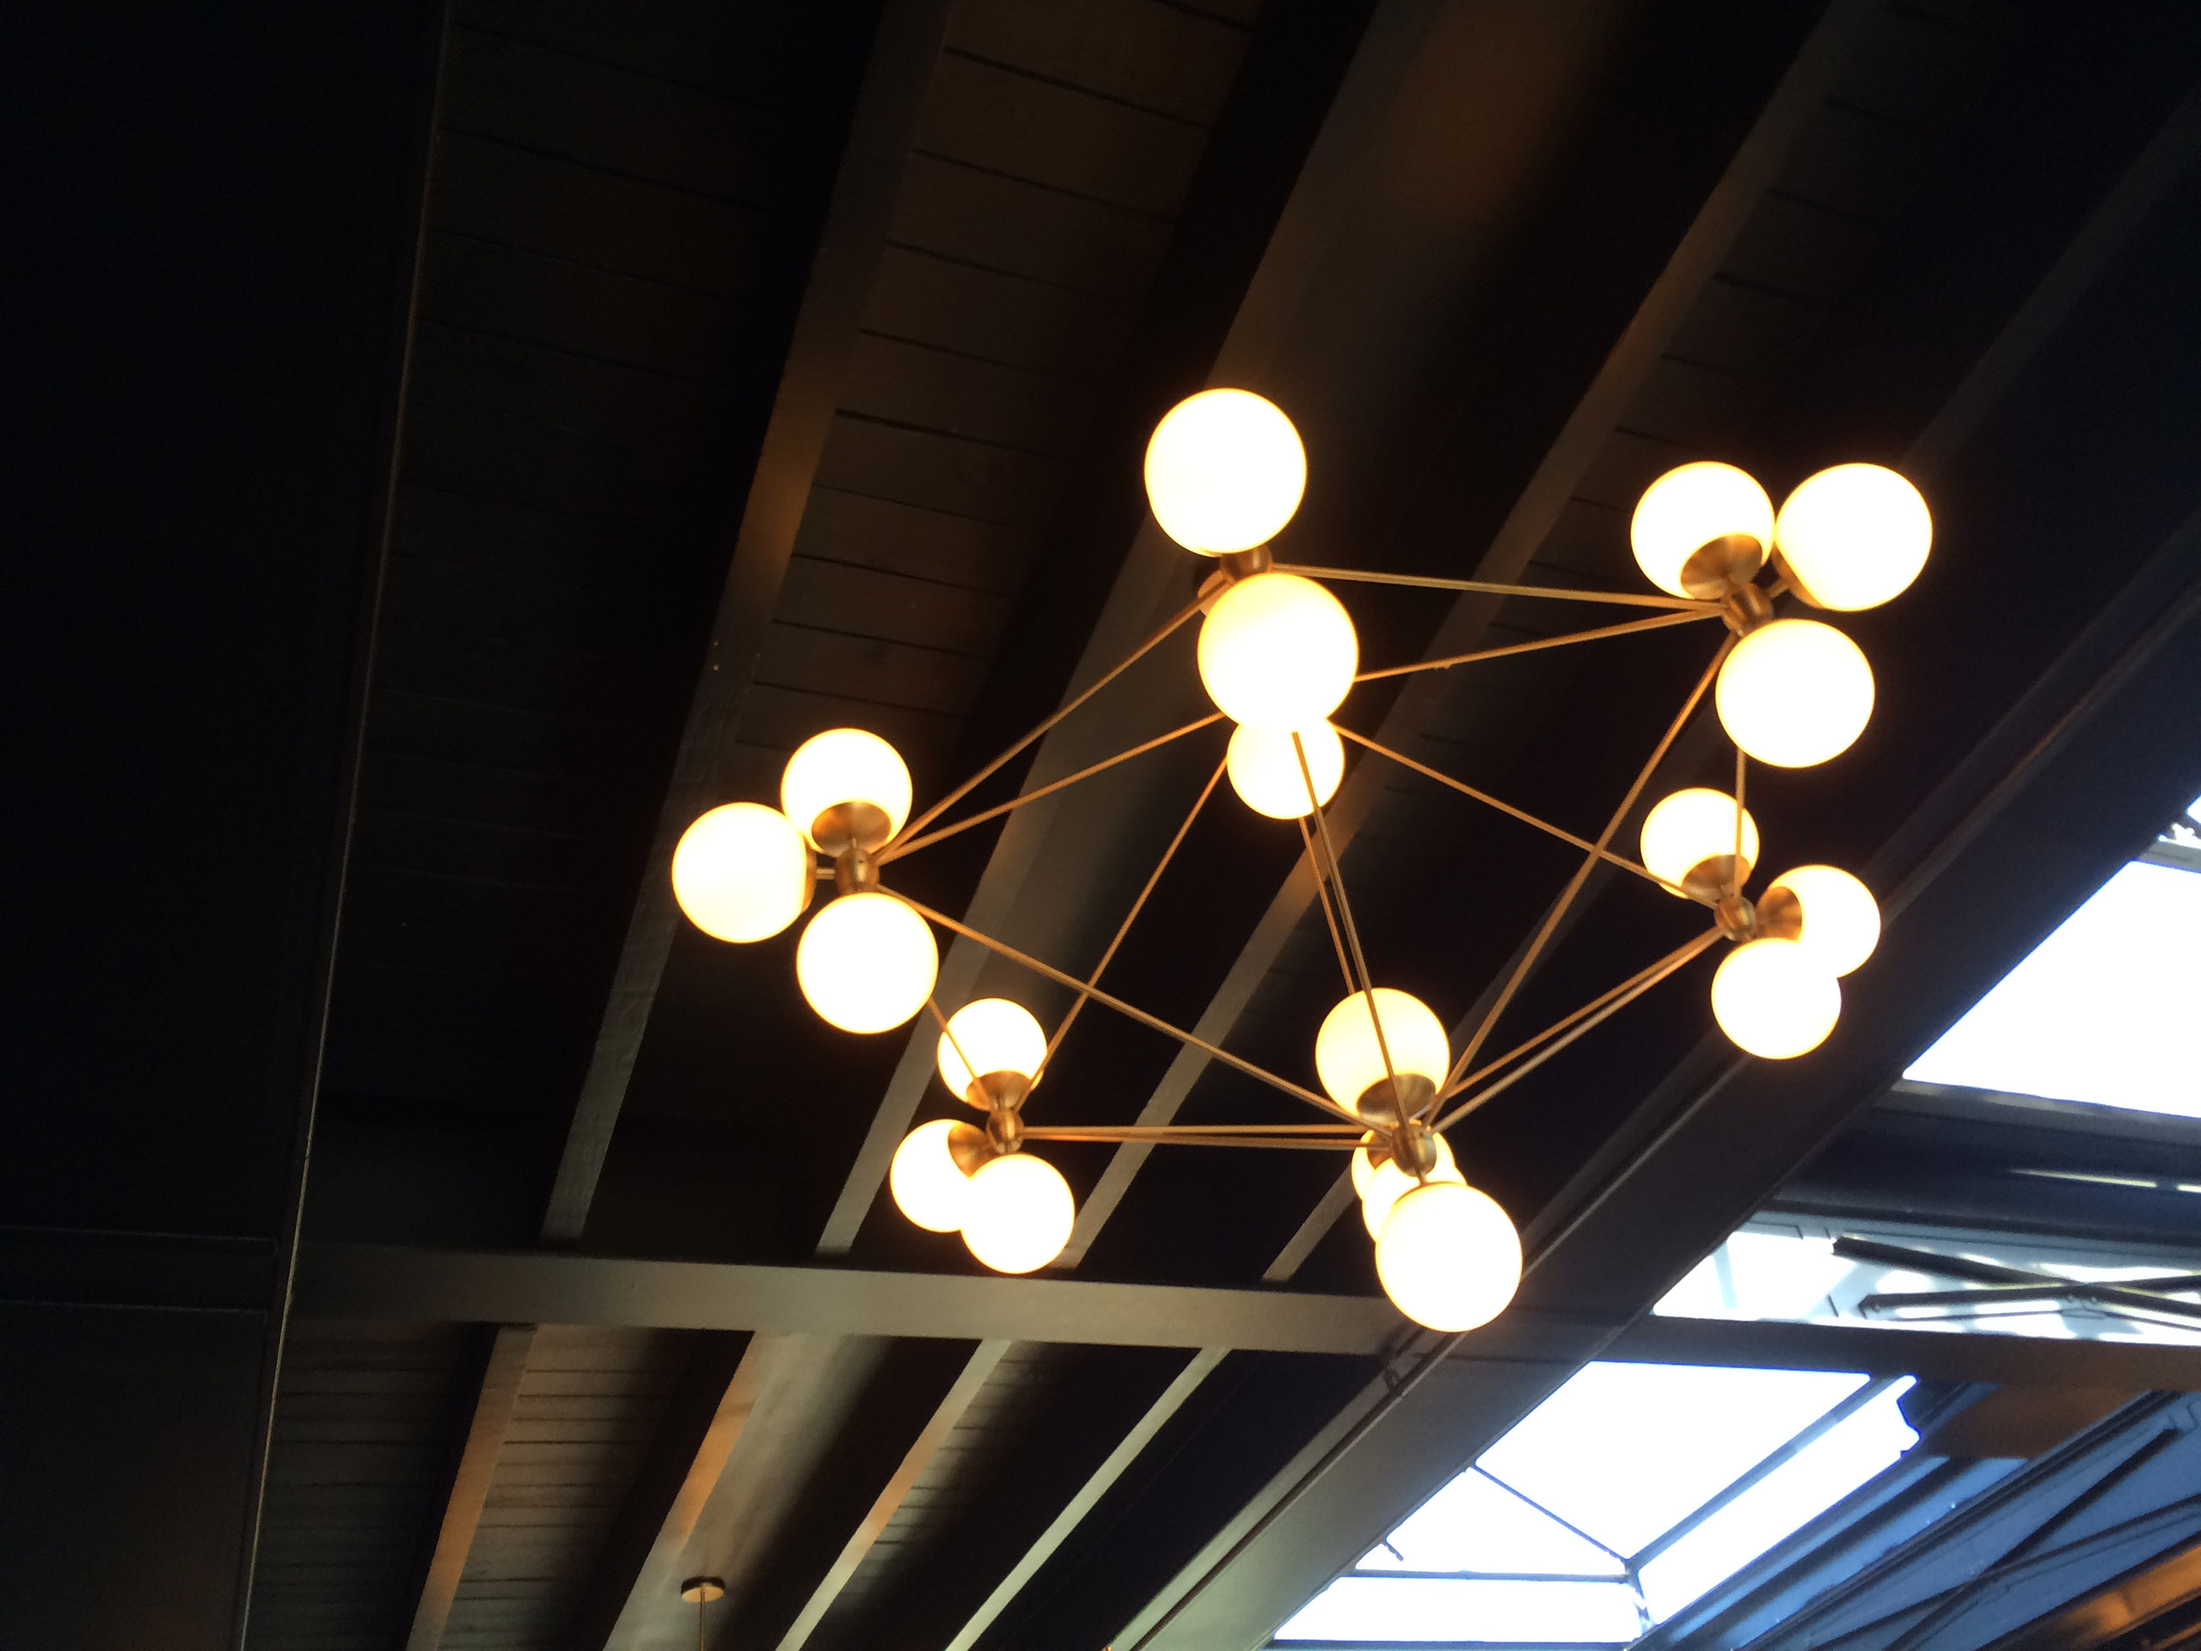
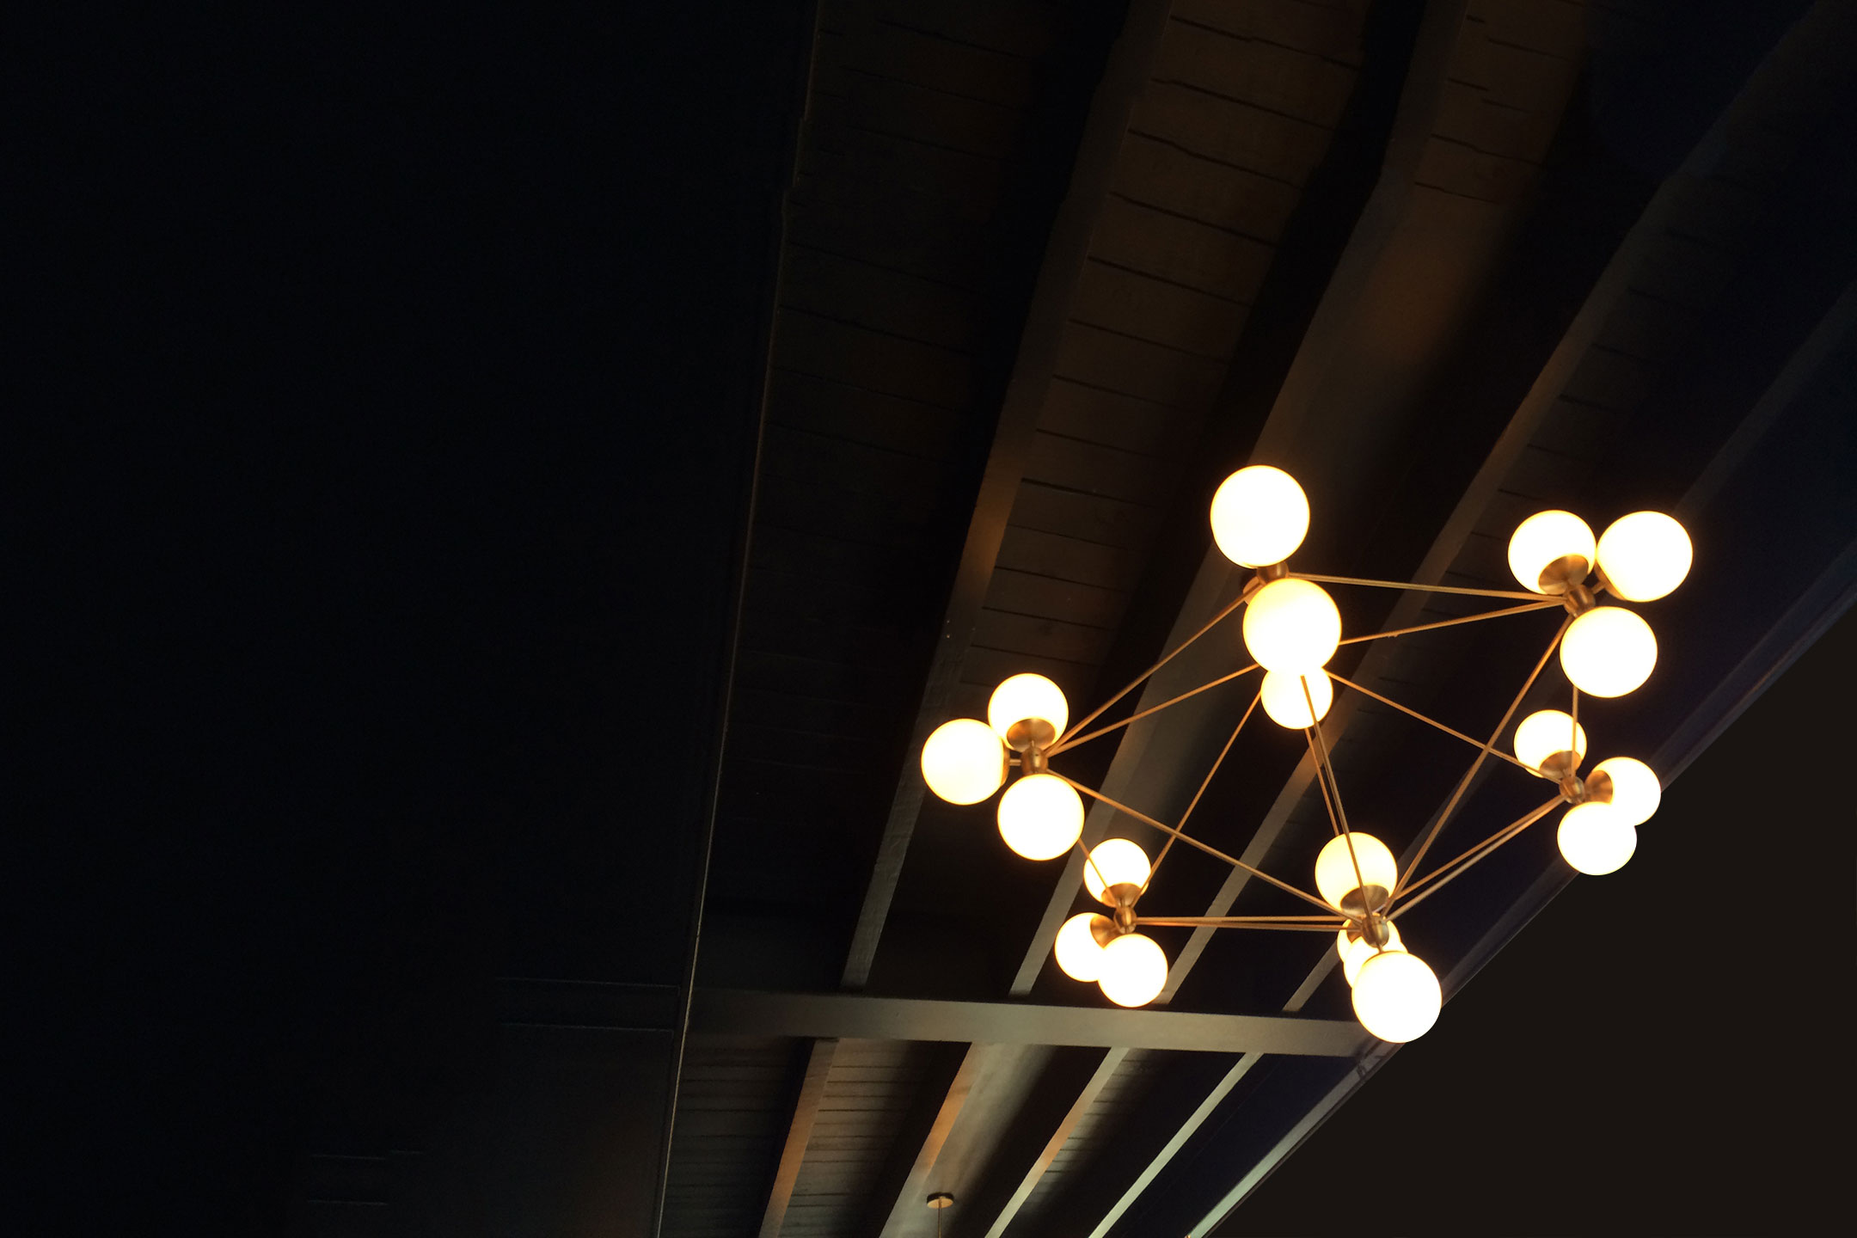
new bg stretching code and image, new html text instead of image.

diff --git a/index.htm b/index.htm
@@ -1,39 +1,48 @@
 <!DOCTYPE html>
-<html><head><meta http-equiv="Content-Type" content="text/html; charset=UTF-8">
+<html>
+
+<head>
 	<meta charset="utf-8">
 	
 	<title>Annie &amp; Mike • 5.1.15 • NYC • Save the Date</title>
 	
 	<style>
 		
-		#bg {
-			position:fixed; 
-			top:50%; 
-			left:50%; 
-			width:100%; 
-			height:100%;
-		}
-		#bg img {
-			position:absolute; 
-			top:-100; 
-			left:-100; 
-			right:0; 
-			bottom:0; 
-			margin:auto; 
-			min-width:200%;
-			min-height:200%;
+		img.bg {
+			/* Set rules to fill background */
+			min-height: 100%;
+			min-width: 1024px;
+			
+			/* Set up proportionate scaling */
+			width: 100%;
+			height: auto;
+			
+			/* Set up positioning */
+			position: fixed;
+			top: 0;
+			left: 0;
 		}
 		
-		#page-wrap { position: relative; z-index: 2; padding: 100px;}
-		p { font: 15px/2 Georgia, Serif; margin: 0 0 30px 0; text-indent: 40px; }
+		@media screen and (max-width: 1024px){
+			img.bg {
+				left: 50%;
+				margin-left: -512px; }
+		}
+		
+		#page-wrap { position: relative; width: 500px; margin: 50px auto; padding: 20px; }
+		p { font: 120px Georgia, Serif; color: #FFFFFF; text-align:center; margin: 0 20 30px 0;}
 	</style>
 </head>
+
 <body>
+	<img src="images/bg.jpg" class="bg">
 	<div id="page-wrap">
-	<img src="images/5115.png" alt="Annie &amp; Mike, 5.1.15, New York City - Save the Date">
+		<p style = "font-size:36px;">Annie & Mike</p>
+		<p>5.1.15</p>
+		<p style = "font-size:28px;">New York City</p>
+		<p style = "font-size:28px;">Save the Date</p>
 	</div>
-	<div id="bg">
-		<img src="images/bg.jpg">
-	</div>
+	
 </body>
+
 </html>
